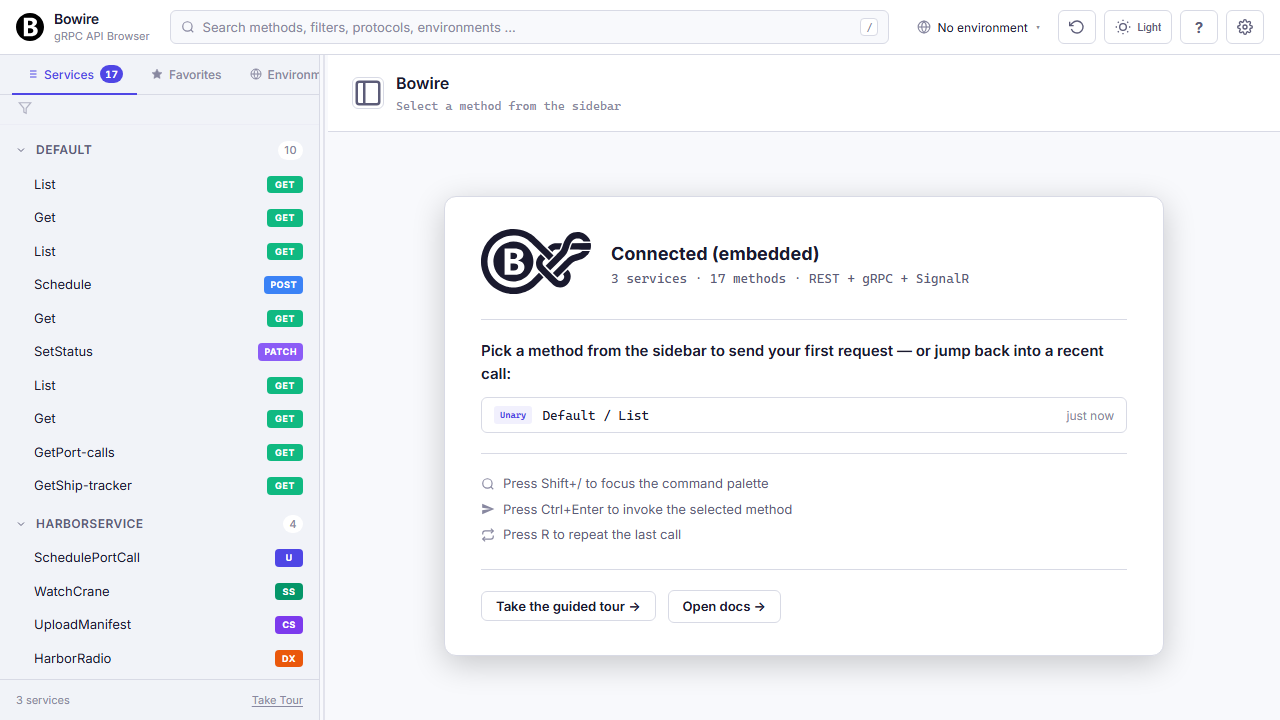
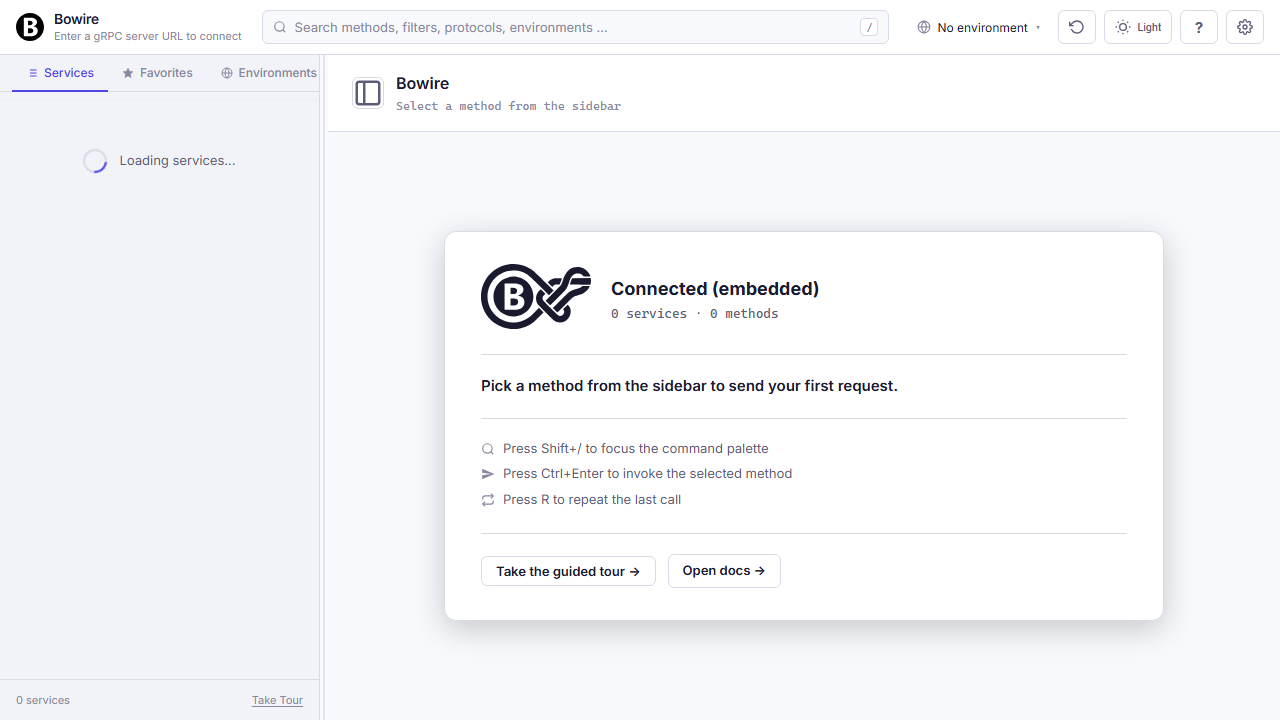
site: distinct empty-state captures via standalone bowire CLI
Smart-empty-states feature card had four near-identical screenshots
because the embedded sample fixed the ServerUrl in code and ignored
the localStorage tweaks the screenshot script tried. Switched to four
separate `bowire --no-browser --port NNNN ...` standalone instances —
each lands in the matching state directly:

  ready            (port 5181) --url https://localhost:5101
  first-run        (port 5182) (no --url)
  multi-url        (port 5183) --url 5101 + --url 65535
  discovery-failed (port 5184) --url https://localhost:65535

scripts/capture-empty-states.js drives Playwright at all four. Both
themes regenerate, default fallback copies kept for legacy markup.

diff --git a/scripts/capture-empty-states.js b/scripts/capture-empty-states.js
@@ -1,0 +1,85 @@
+/**
+ * Captures the four "Smart empty states" by pointing Playwright at four
+ * separate standalone-mode `bowire` instances — each launched with a
+ * different URL setup so Bowire's UI lands in the matching state:
+ *
+ *   ready          → http://localhost:5181 (--url https://localhost:5101)
+ *   first-run      → http://localhost:5182 (no --url)
+ *   multi-url      → http://localhost:5183 (--url 5101 + --url 65535)
+ *   discovery-failed → http://localhost:5184 (--url https://localhost:65535)
+ *
+ * Run separate `bowire --no-browser --port NNNN ...` processes before
+ * invoking this script. Outputs land in BOTH:
+ *   site/assets/images/screenshots/{name}-{theme}.png
+ *   docs/images/bowire-{name}-{theme}.png
+ * plus a theme-less default copy when THEME=dark.
+ */
+const { chromium } = require('@playwright/test');
+const path = require('path');
+const fs = require('fs');
+
+const SITE_OUT = path.resolve(__dirname, '..', 'site', 'assets', 'images', 'screenshots');
+const DOCS_OUT = path.resolve(__dirname, '..', 'docs', 'images');
+const THEME = (process.env.THEME || 'dark').toLowerCase();
+
+const STATES = [
+    { name: 'ready', port: 5181 },
+    { name: 'first-run', port: 5182 },
+    { name: 'multi-url', port: 5183 },
+    { name: 'discovery-failed', port: 5184 },
+];
+
+function log(m) { console.log(new Date().toISOString().slice(11, 19), m); }
+
+(async () => {
+    const browser = await chromium.launch({ headless: true });
+    const ctx = await browser.newContext({
+        viewport: { width: 1280, height: 720 },
+        ignoreHTTPSErrors: true,
+        colorScheme: THEME,
+    });
+    const page = await ctx.newPage();
+    await page.emulateMedia({ colorScheme: THEME });
+
+    for (const { name, port } of STATES) {
+        log(`${name} (port ${port}, theme=${THEME})…`);
+        try {
+            await page.goto(`http://localhost:${port}/bowire`, { waitUntil: 'domcontentloaded' });
+            // Force the theme pref before first paint and reload so the
+            // capture lands in the explicitly-themed render rather than
+            // whatever the OS pref says.
+            await page.evaluate((t) => {
+                try { localStorage.setItem('bowire_theme_pref', t); } catch {}
+            }, THEME);
+            await page.reload({ waitUntil: 'domcontentloaded' });
+            await page.waitForSelector('#bowire-app.bowire-app-ready', { timeout: 20000 });
+
+            // Wait until the discovery loop has either resolved (services
+            // populated, or first-run landing card visible) or visibly
+            // failed (error pane). 30 s is enough for a TCP RST on the
+            // dead :65535 to surface.
+            await page.waitForFunction(() => {
+                const txt = (document.body && document.body.innerText) || '';
+                if (/Discovering services/i.test(txt)) return false;
+                return /Connected|services|First-run|Welcome|first request|Pick a method|Discovery failed|Server unreachable|Drop in a schema/i.test(txt);
+            }, { timeout: 30000 }).catch(() => {});
+            await page.waitForTimeout(800);
+
+            const siteFile = path.join(SITE_OUT, `${name}-${THEME}.png`);
+            const docsFile = path.join(DOCS_OUT, `bowire-${name}-${THEME}.png`);
+            await page.screenshot({ path: siteFile, fullPage: false });
+            fs.copyFileSync(siteFile, docsFile);
+            if (THEME === 'dark') {
+                fs.copyFileSync(siteFile, path.join(SITE_OUT, `${name}.png`));
+                fs.copyFileSync(siteFile, path.join(DOCS_OUT, `bowire-${name}.png`));
+            }
+            log(`  -> ${name}-${THEME}.png`);
+        } catch (e) {
+            log(`  (${name} failed: ${e.message.split('\n')[0]})`);
+        }
+    }
+
+    await ctx.close();
+    await browser.close();
+    log('done');
+})();
